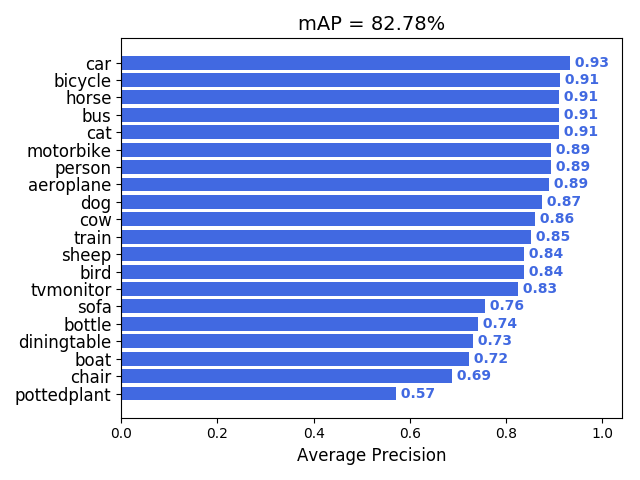
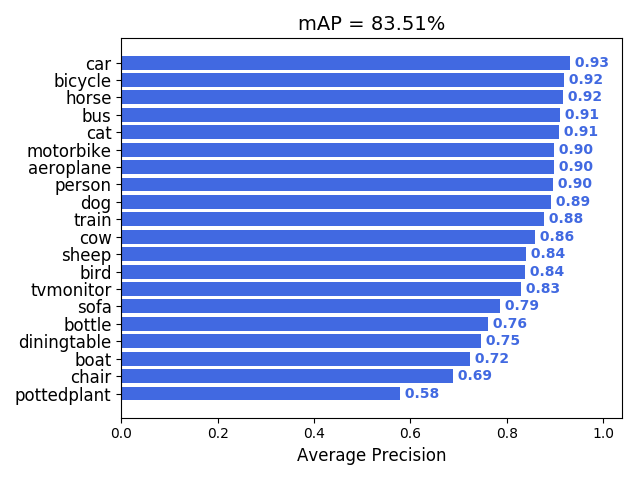
label smooth

diff --git a/README.md b/README.md
@@ -16,8 +16,8 @@ Note
    <tr><td>soft nms</td><td>xxx</td><td>-0.6</td><td>xxx</td><td>-0.6</td><td>yes</td></tr>
    <tr><td>modify positive and negative labels</td><td>88.9</td><td>+0.6</td><td>79.3</td><td>-0.3</td><td>yes</td></tr>
    <tr><td>mix up</td><td>xxx</td><td>-0.3</td><td>80.7</td><td>+1.4</td><td>no</td></tr>
-   <tr><td>label smooth</td><td>89.1</td><td>+0.2</td><td>xxx</td><td>xxx</td><td>yes</td></tr>
-   <tr><td>multi scale test</td><td>90.7</td><td>+1.6</td><td>82.8</td><td>+2.1</td><td>yes</td></tr>
+   <tr><td>label smooth</td><td>89.1</td><td>+0.2</td><td>81.1</td><td>+0.4</td><td>yes</td></tr>
+   <tr><td>multi scale test</td><td>90.7</td><td>+1.6</td><td>83.5</td><td>+2.4</td><td>yes</td></tr>
 </table>
 <p align="center">evaluated at 544x544 on Pascal VOC 2007 test set</p>
 
